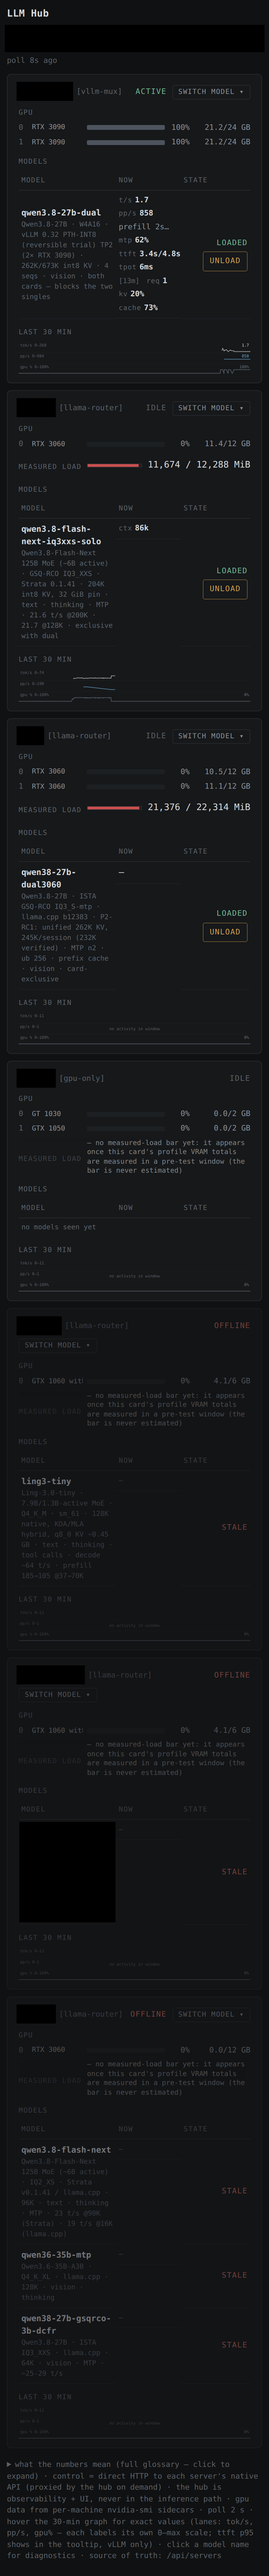
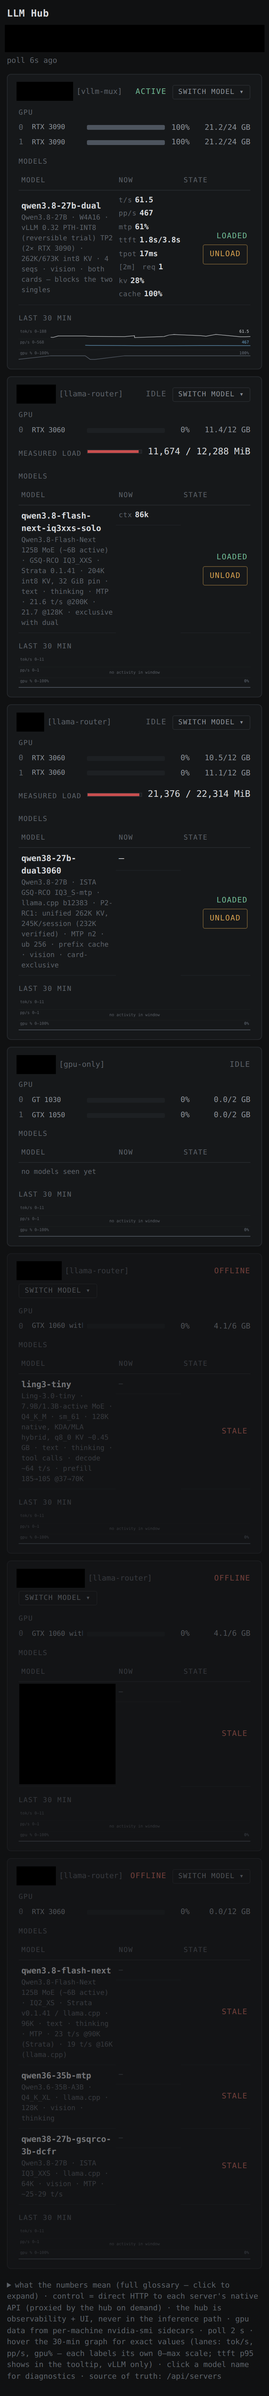
hub: the 'no measured-load bar yet' one-liner is removed from ALL card kinds (round 5 removed only the vLLM variant, which left the llama/strata variant and read as clutter in the same way); the explanation moves to the collapsible glossary as a measured-load entry; dead .cap.dim CSS removed; screen

diff --git a/hub/ui/index.html b/hub/ui/index.html
@@ -78,8 +78,6 @@
     border:1px solid var(--line); color:var(--dim); border-radius:3px; cursor:pointer; }
   .btn.ghost:hover { color:var(--fg); border-color:var(--dim); }
   .cap { display:flex; align-items:center; gap:8px; margin:6px 0 2px; }
-  .cap.dim { opacity:.55; }
-  .cap.dim .gstat { flex:1; white-space:normal; font-size:10px; line-height:1.35; }
   .capbar { flex:1; height:6px; background:#1d2023; border:1px solid var(--line); }
   .capbar div { height:100%; }
   .capbar .ok { background:#3f9e5f; }
@@ -272,6 +270,11 @@
   <b>prefill Ns…</b> a request is in the PREFILL phase — this vLLM build exposes no
   token counters until first token, so there is no in-flight rate to show; the timer
   and kv/req cells are the live signals ·
+  <b>measured load</b> the bar, when present, is measured profile VRAM totals against the
+  card's GPU capacity — numbers from the pre-test window, never estimates. It appears once
+  a card's first profile totals are measured. vLLM engines get no bar: the engine sizes its
+  own pool to the cards at startup, so a per-profile bar would be a constant and the live
+  pressure is the kv cell in its model rows ·
   <b>what each card kind carries</b> — vLLM cards: kv (pool occupancy), req, ttft/tpot,
   phase; strata cards (the 48 GiB box, the 35B on the laptop): ctx (deepest prompt),
   mtp draft acceptance, cache; plain llama.cpp builds (the 27B on the dual-3060, the
@@ -669,19 +672,7 @@ const CAP_EXPLAIN = "Measured VRAM totals of the loaded profiles vs the card's m
   "would sit red permanently); the live pressure there is the KV% in the model rows.";
 function capBar(s) {
   const c = s.capacity;
-  if (!c || c.total_mib == null) {
-    // vLLM cards get no line at all: the pool-sizing explanation was more
-    // prose than the card was worth (owner: it bloated the card); the kv
-    // cell and its hover already carry the live pressure. Unmeasured
-    // llama/strata cards keep the quiet one-liner — there the bar's
-    // absence is a measurement gap, not a design constant.
-    if (s.kind === "vllm" || s.kind === "vllm-mux") return "";
-    const why = ("no measured-load bar yet: it appears once this card's profile VRAM " +
-        "totals are measured in a pre-test window (the bar is never estimated)");
-    return `<div class="cap dim" title="${esc(CAP_EXPLAIN)}">` +
-      `<span class="label" title="${esc(CAP_EXPLAIN)}">measured load</span>` +
-      `<span class="gstat" title="${esc(CAP_EXPLAIN)}">— ${esc(why)}</span></div>`;
-  }
+  if (!c || c.total_mib == null) return "";  // no measured data: no line at all (owner: the explanation text bloated the card; the glossary carries it)
   const mm = c.measured_mib || {};
   let sum = 0, n = 0, miss = 0;
   for (const m of s.models) if (m.loaded) {

diff --git a/reports/2026-11-20-llm-hub-picker-and-bd775i-onboarding.md b/reports/2026-11-20-llm-hub-picker-and-bd775i-onboarding.md
@@ -261,3 +261,14 @@ one hover affordance rule, the glossary out of the way)
   one-liner; click expands). The always-visible line keeps the
   operational facts: the hub is observability only, never in the
   inference path; poll cadence; the API as source of truth.
+
+## Addendum 7 (the measured-load explanation is gone from the cards)
+
+The one-line "no measured-load bar yet…" that addendum 5 added to
+unmeasured llama/strata cards is gone too (owner: it read as clutter in
+the same way as the vLLM variant it was left for). No card carries
+explanation prose any more: a measured bar appears when the data exists,
+nothing otherwise, and the collapsible glossary now carries the
+measured-load entry (what the bar is, that it is never estimated, and
+why vLLM engines have no bar). The four showcase screenshots were
+recaptured to match.
